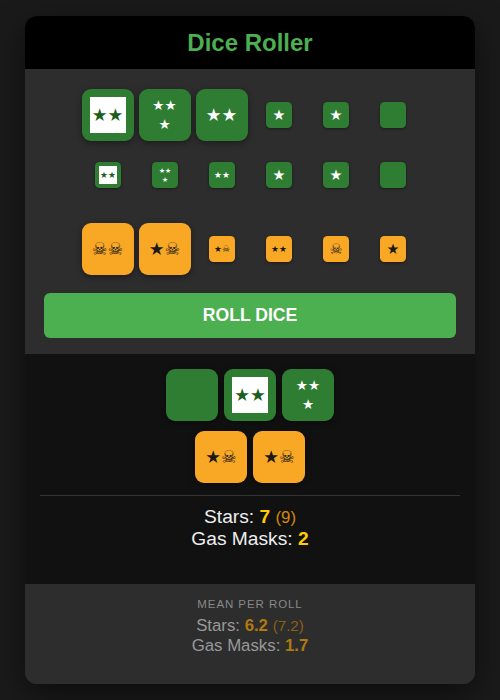
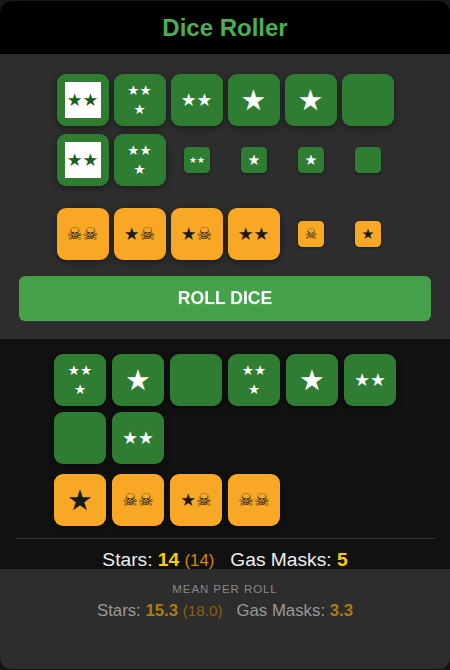
Apply remaining changes

diff --git a/README.md b/README.md
@@ -3,7 +3,7 @@ Dice Roller for the STALKER board game.
 
 ▶ **[Launch](https://felixdombek.github.io/stalkerdice/)**
 
-![App screenshot: 3 green dice and 2 yellow dice selected and rolled, showing results and totals](screenshot.png)
+![App screenshot: 8 green dice and 4 yellow dice selected and rolled, showing results and totals](screenshot.png)
 
 ## Features
 
